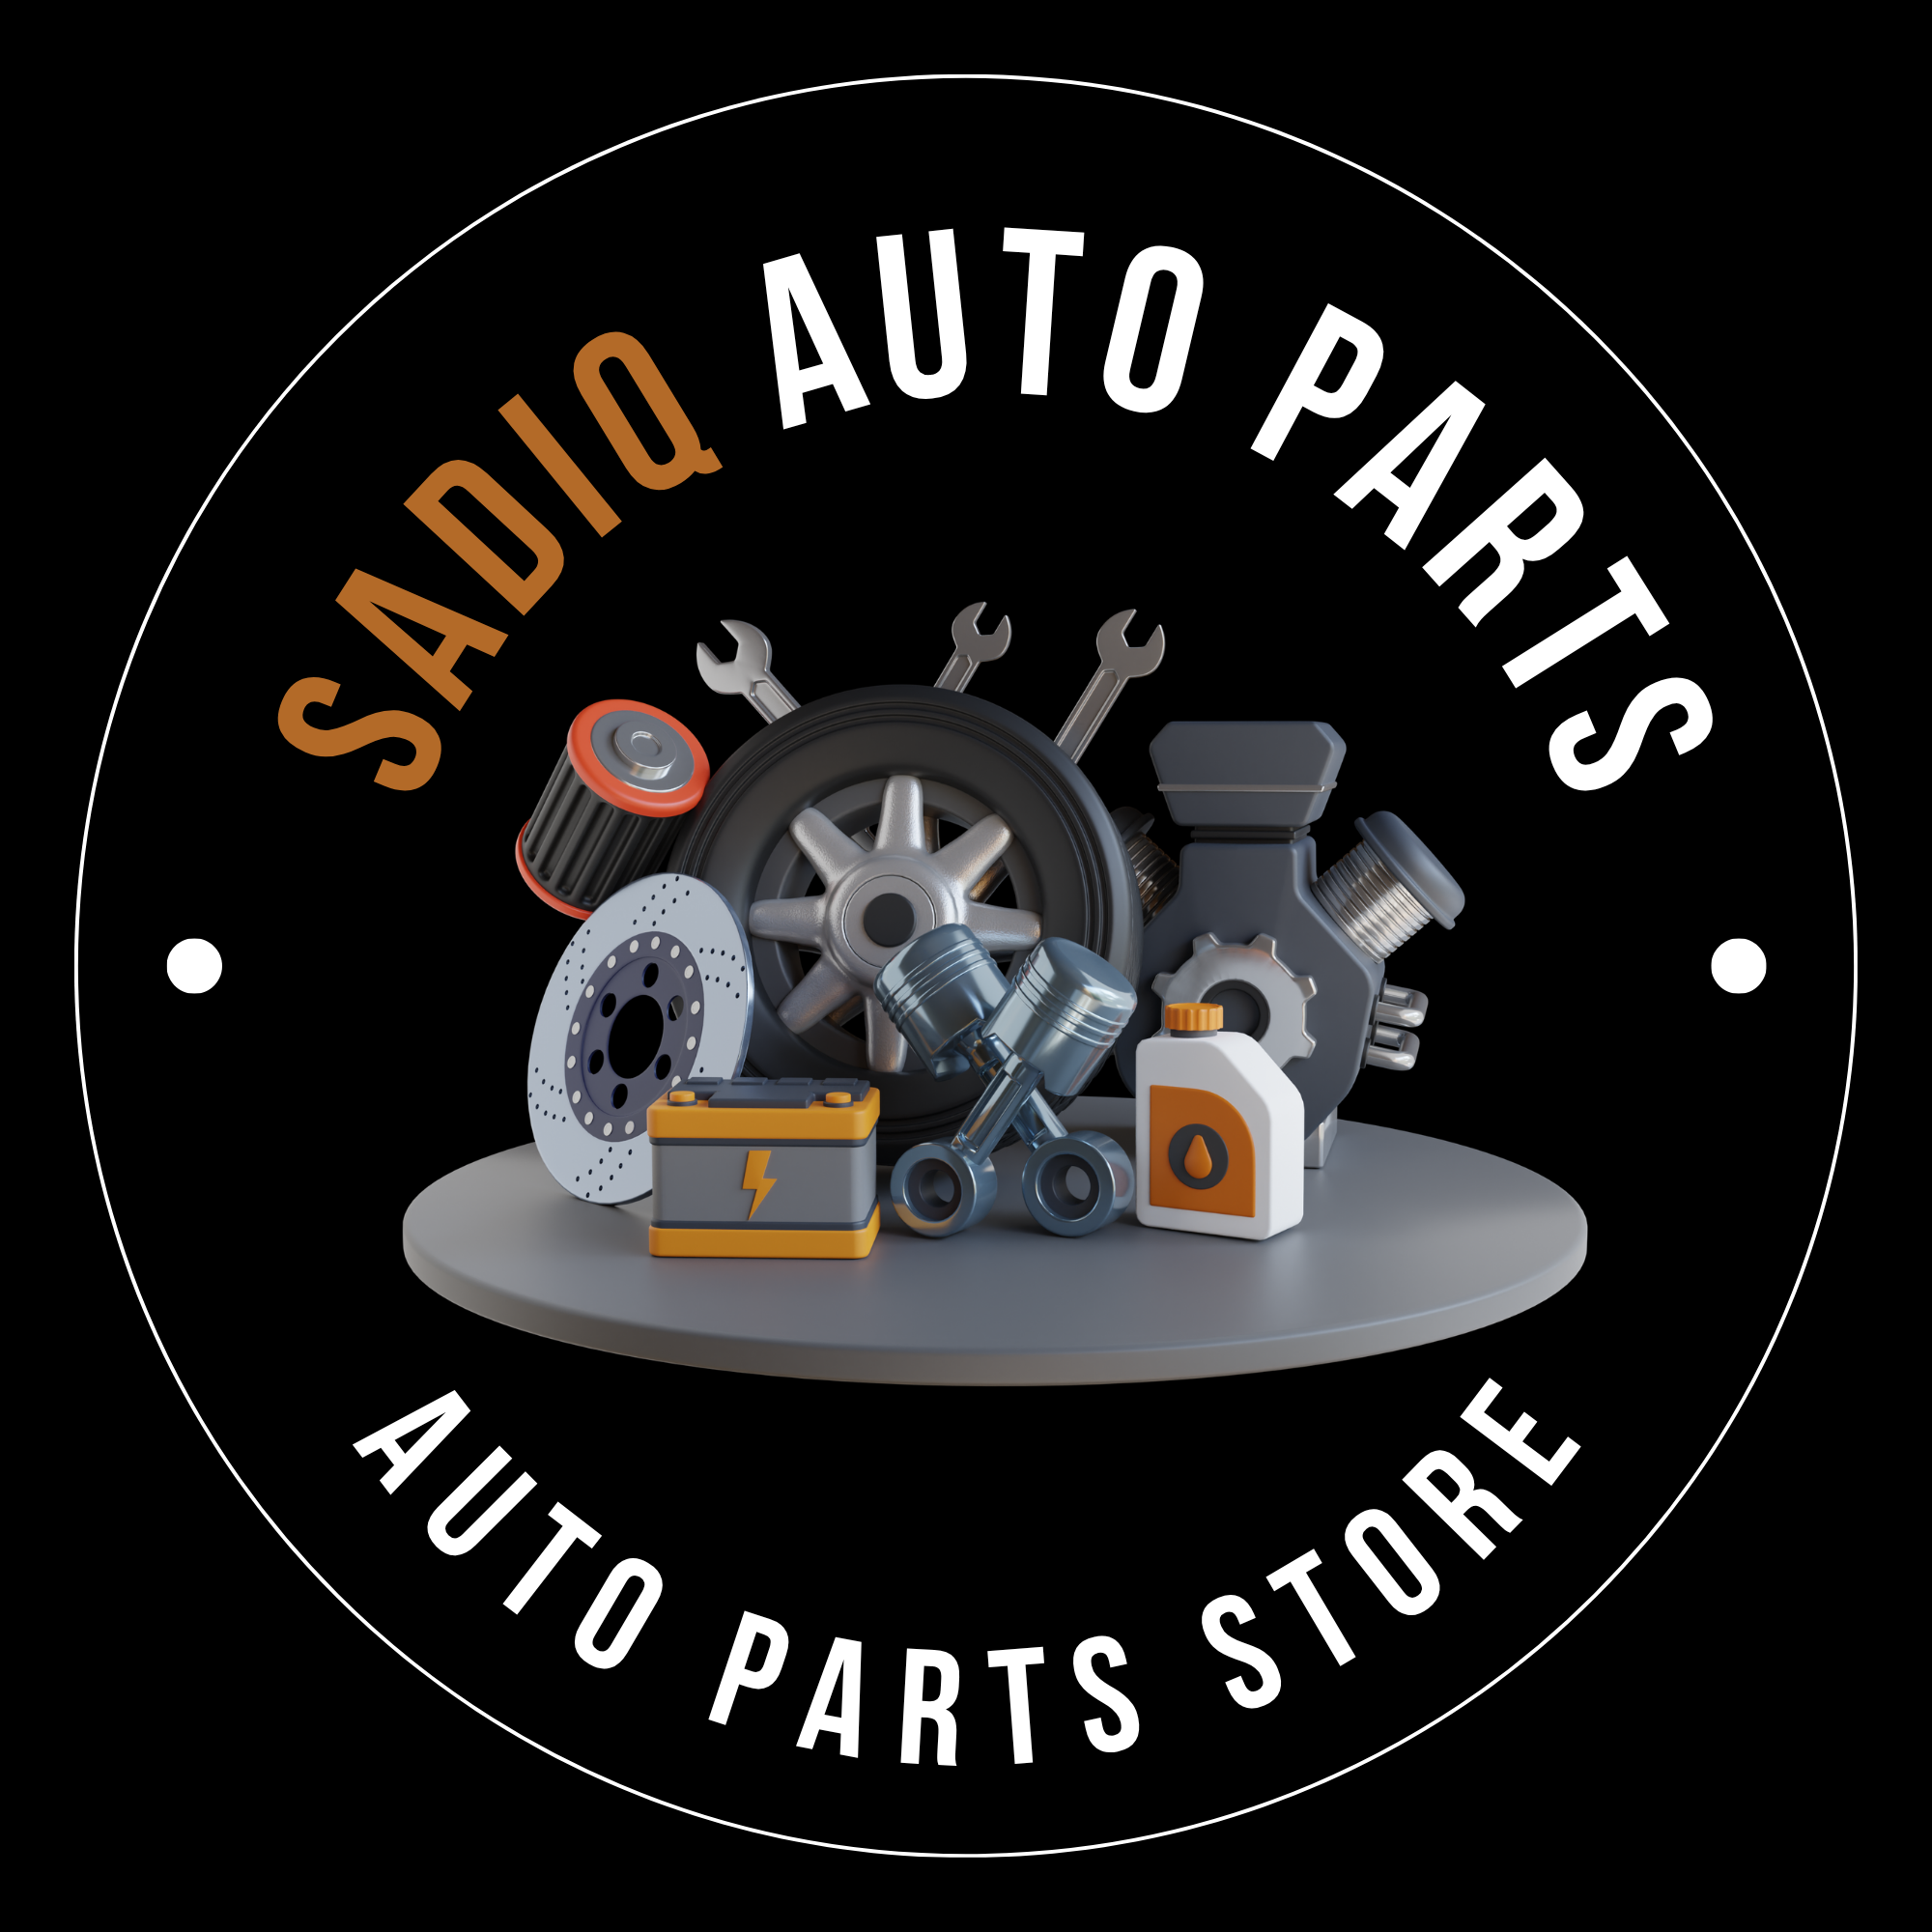
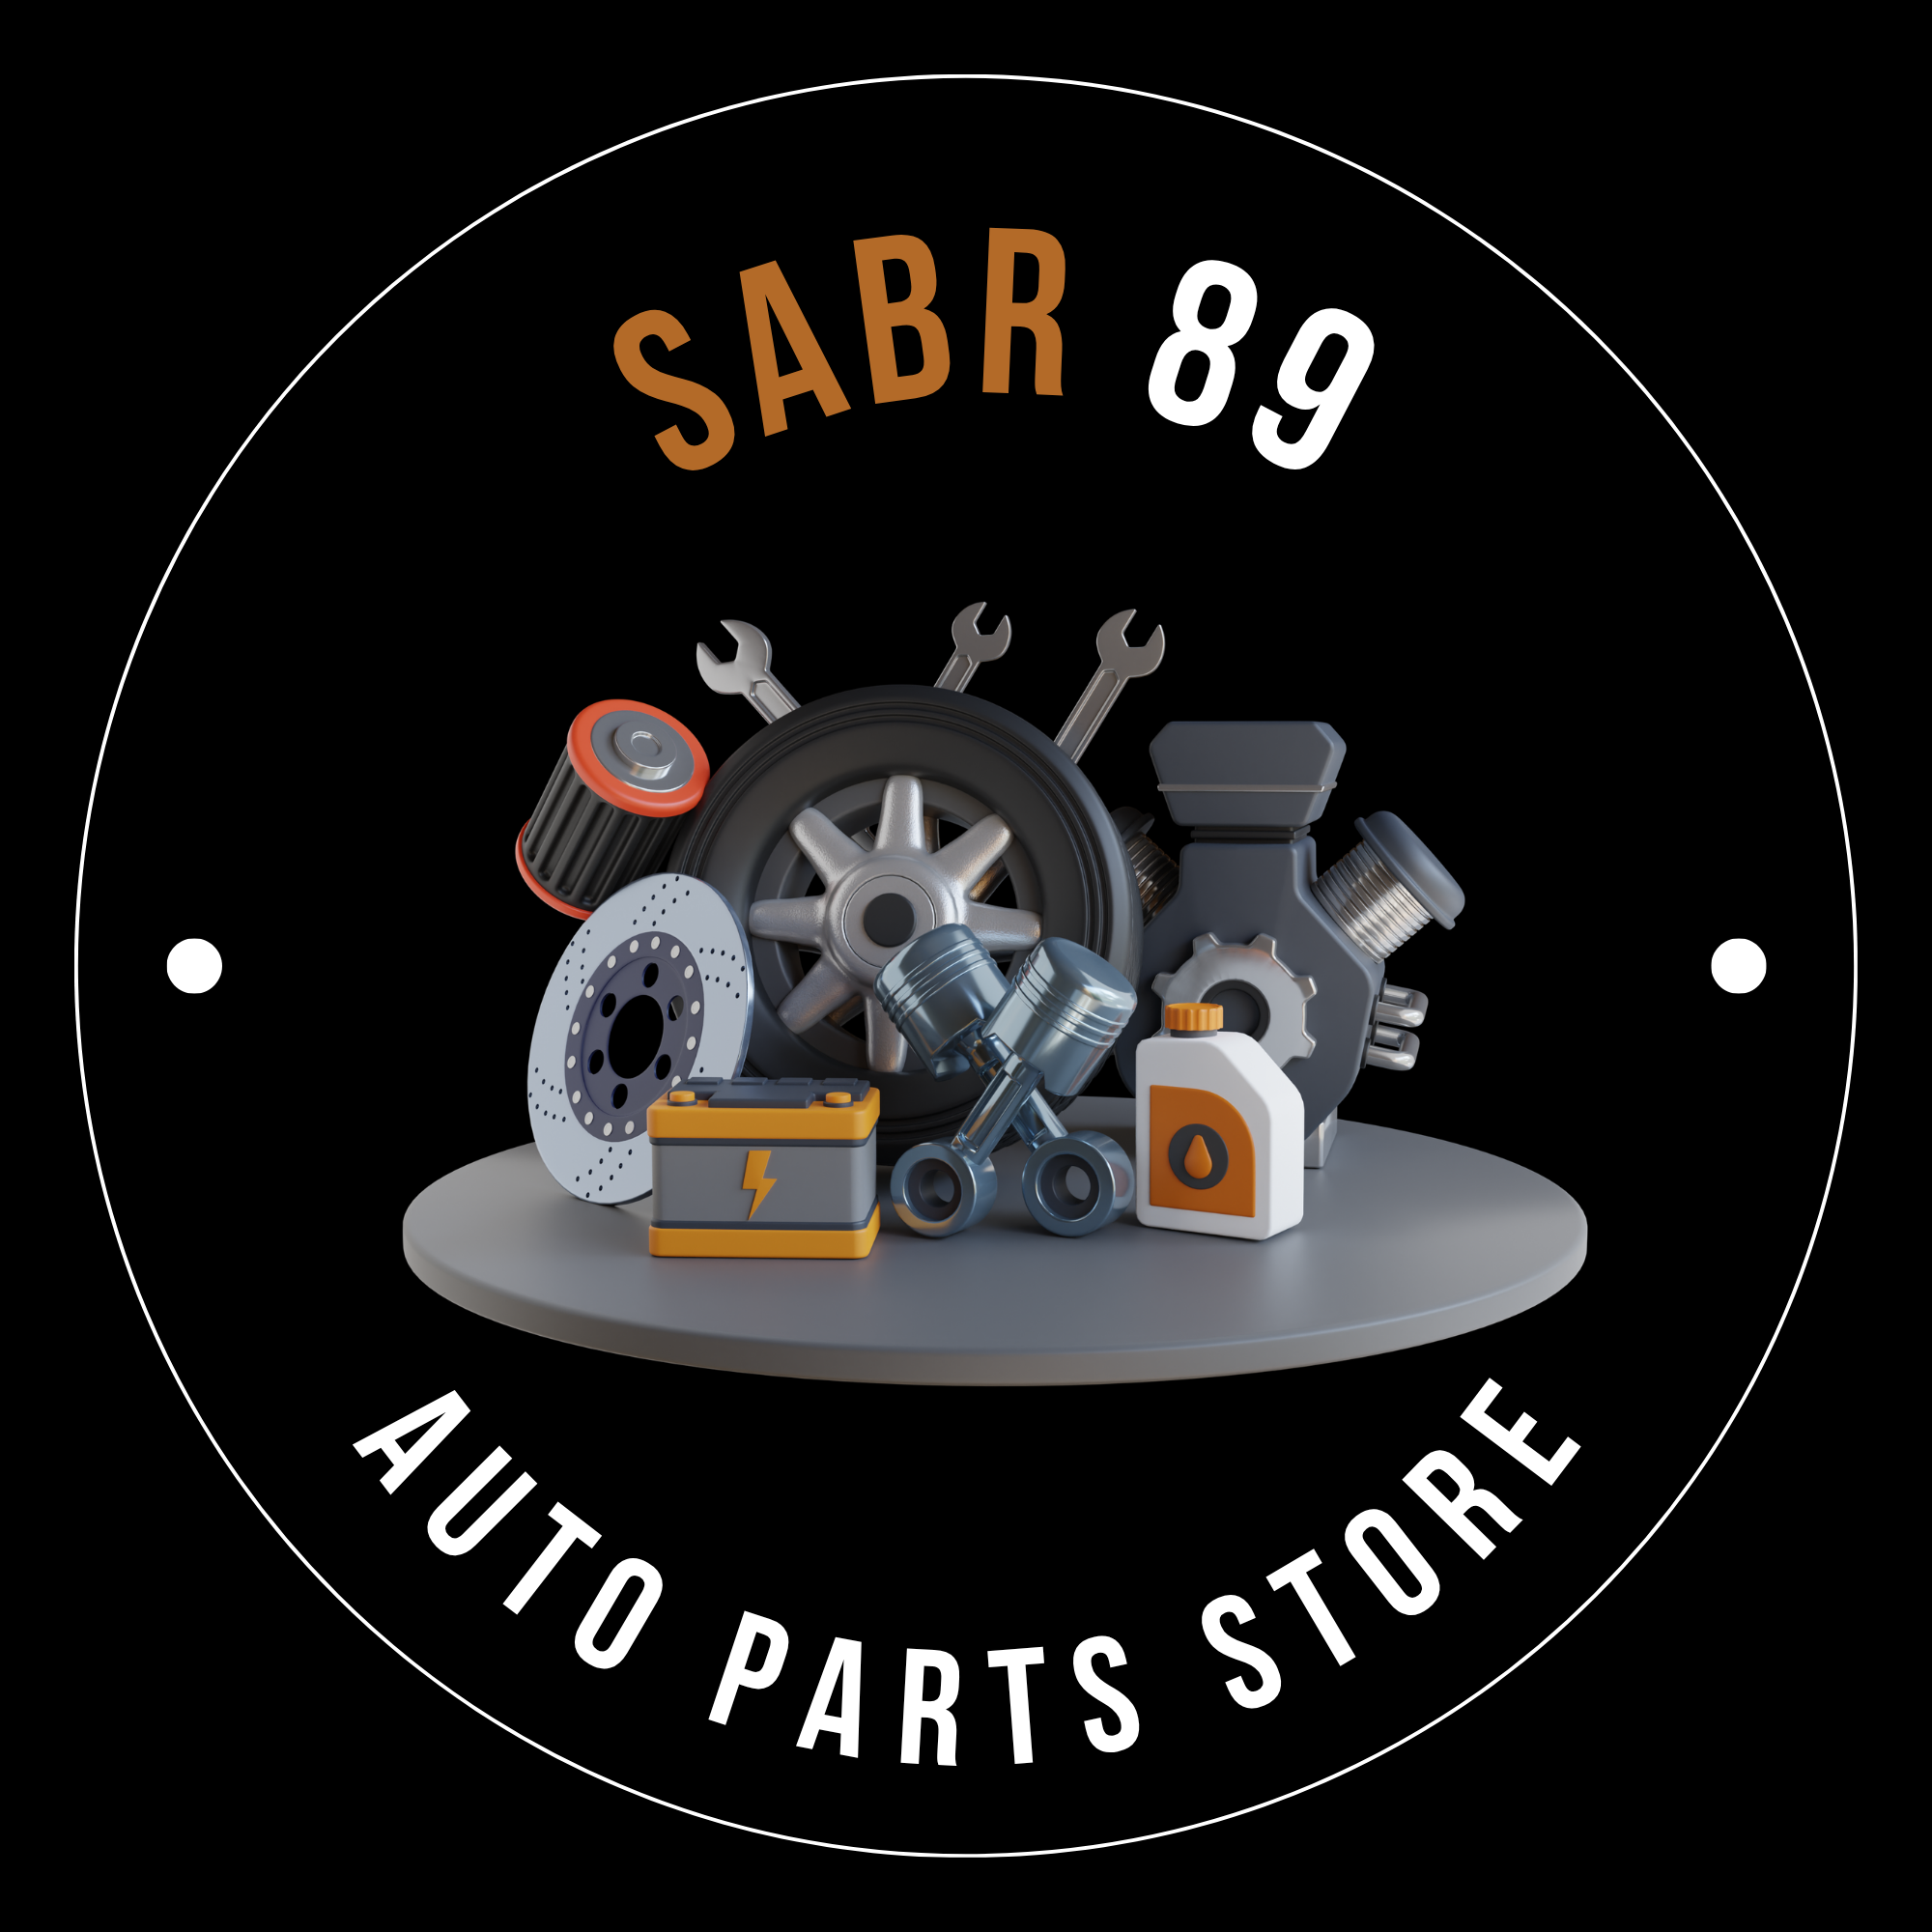
chore: finalize production seeder, import/export UI, and branding assets

Changed region(s): [[0.124, 0.093, 0.899, 0.434]]

diff --git a/resources/js/components/resource-import-export.tsx b/resources/js/components/resource-import-export.tsx
@@ -53,6 +53,9 @@ export default function ResourceImportExport({ exportUrl, importUrl, entityName 
                 {importing ? `Importing ${entityName}...` : 'Import CSV'}
             </button>
             <input
+                id={`csv-import-${entityName.toLowerCase()}`}
+                name="file"
+                aria-label={`Import ${entityName} CSV File`}
                 ref={fileInputRef}
                 type="file"
                 accept=".csv,text/csv"

diff --git a/database/seeders/ProductionSeeder.php b/database/seeders/ProductionSeeder.php
@@ -21,7 +21,7 @@ class ProductionSeeder extends Seeder
             ['email' => '[email redacted]'],
             [
                 'name' => 'Sadiq Admin',
-                'password' => bcrypt('password123'), // Explicit password for the user
+                'password' => bcrypt('password'), // User will reset via email
                 'email_verified_at' => now(),
             ]
         );